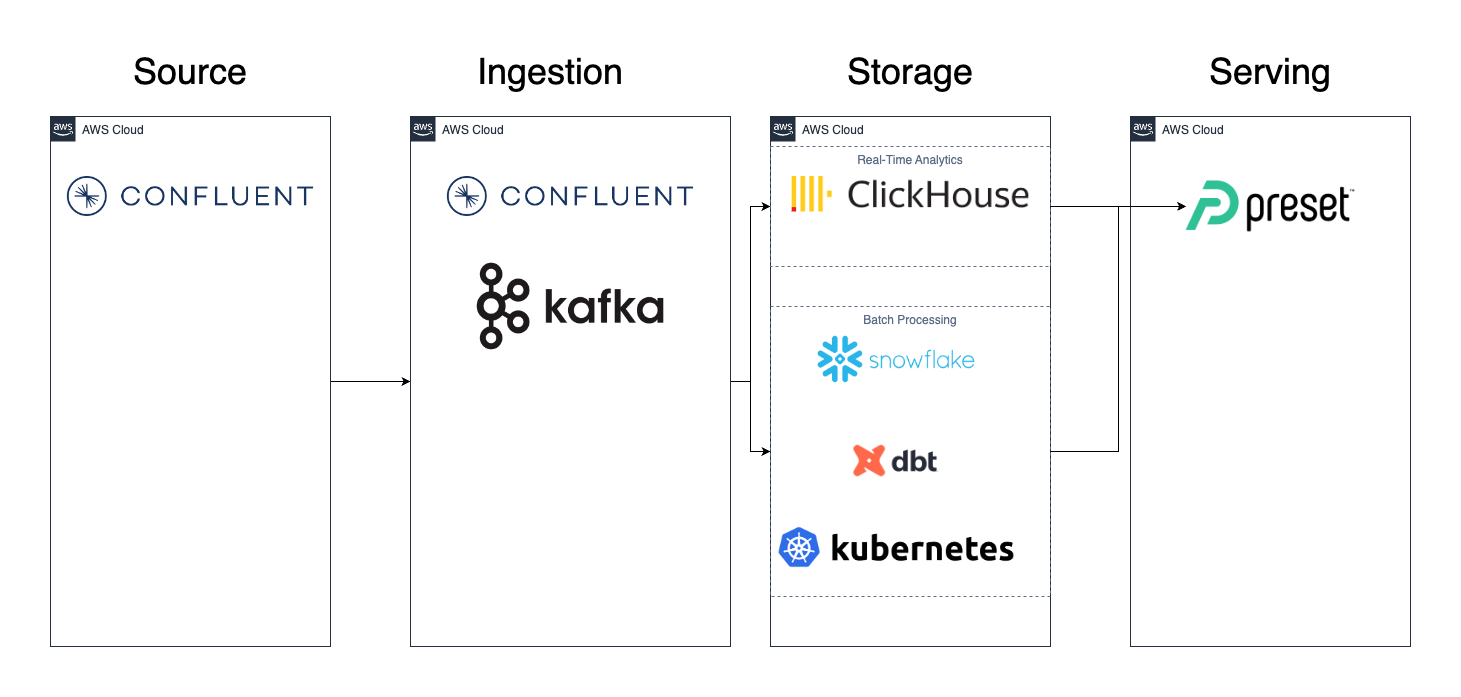
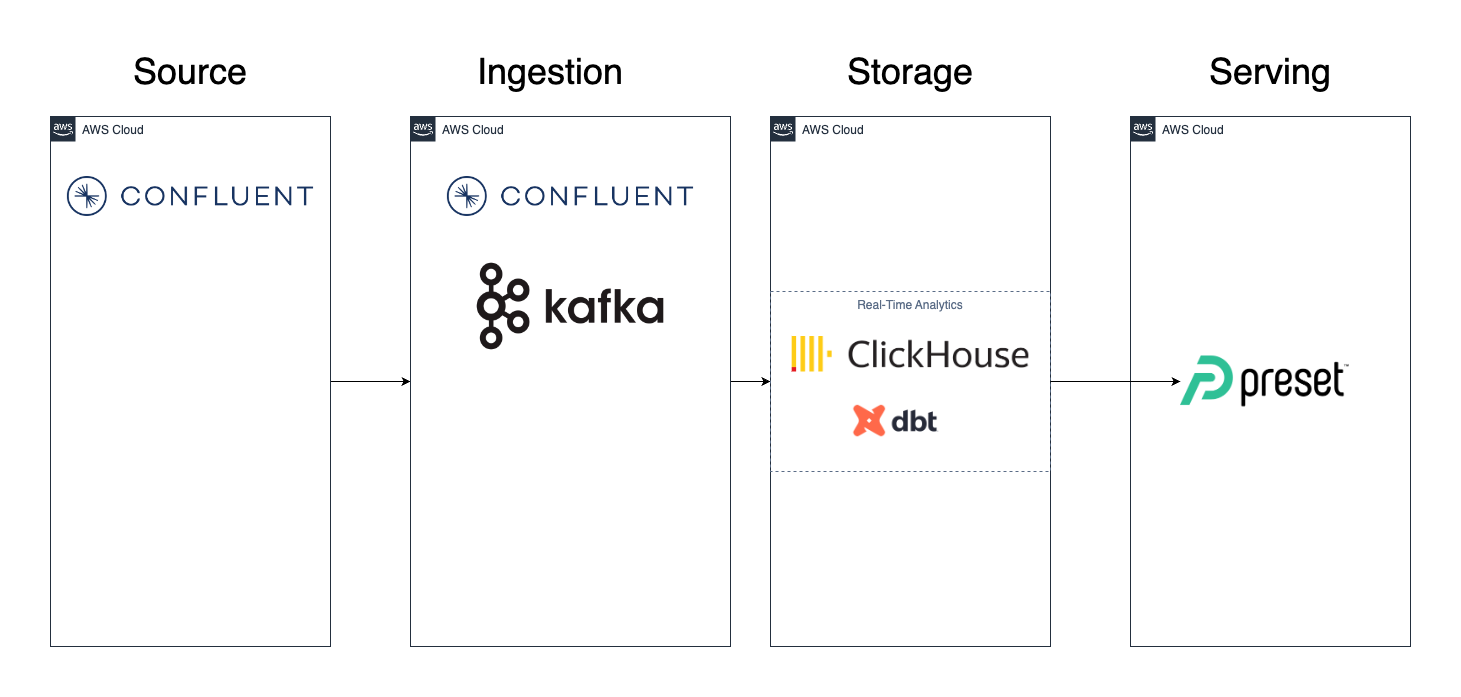
update diagram to streaming only. add questions

diff --git a/doc/project-plan.md b/doc/project-plan.md
@@ -9,8 +9,10 @@ The users of our datasets are Data Analysts, Product Managers, and Software Deve
 ## Questions 
 > - What is the hourly amount of errors not related to content not found (404) errors?
 > - What is the hourly amount of errors due to content not found (404) errors?
-> - What percentage of requests are successful? 
-> - Which are the top 10 IP addresses using the site determine by total number of clicks? 
+> - What percentage of requests are successful?
+> - What percentage of requests end in errors not related to content not found (404) status codes?
+> - What percentage of requests end in errors that are related to content not found (404) status codes?
+> - Which are the top 10 IP addresses using the site determined by total number of clicks? 
 
 ## Source datasets 
 | Source name | Source type | Source documentation |
